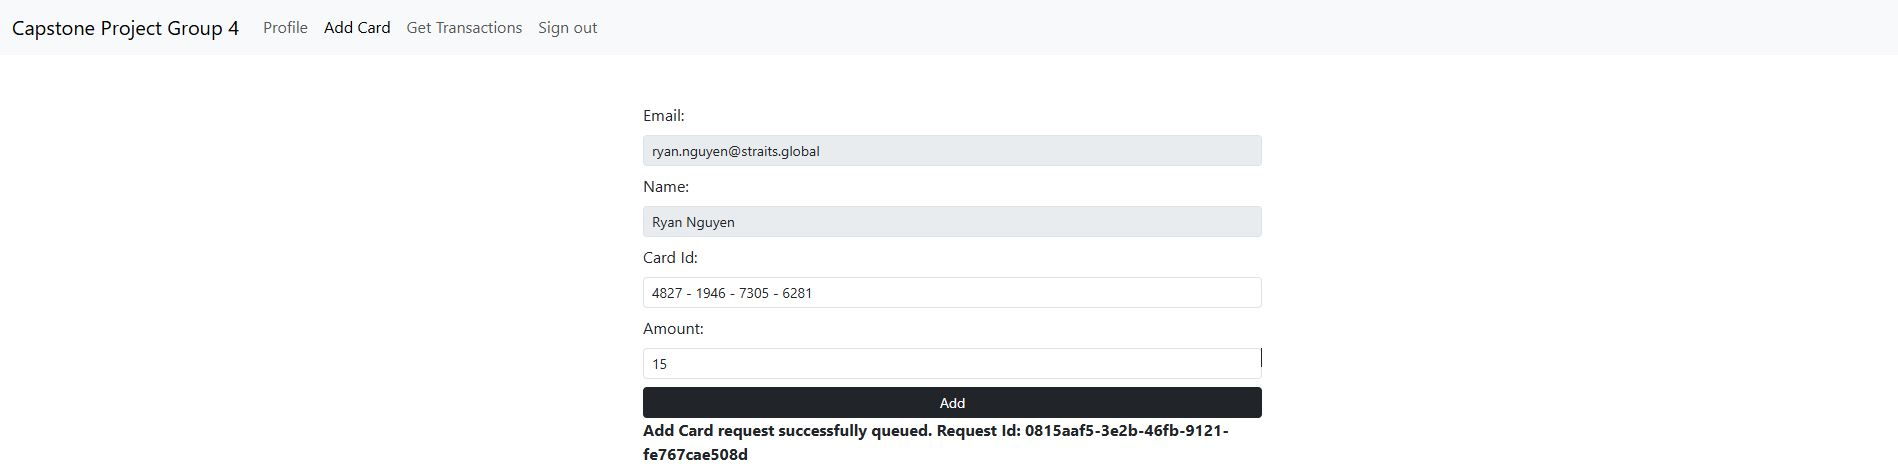
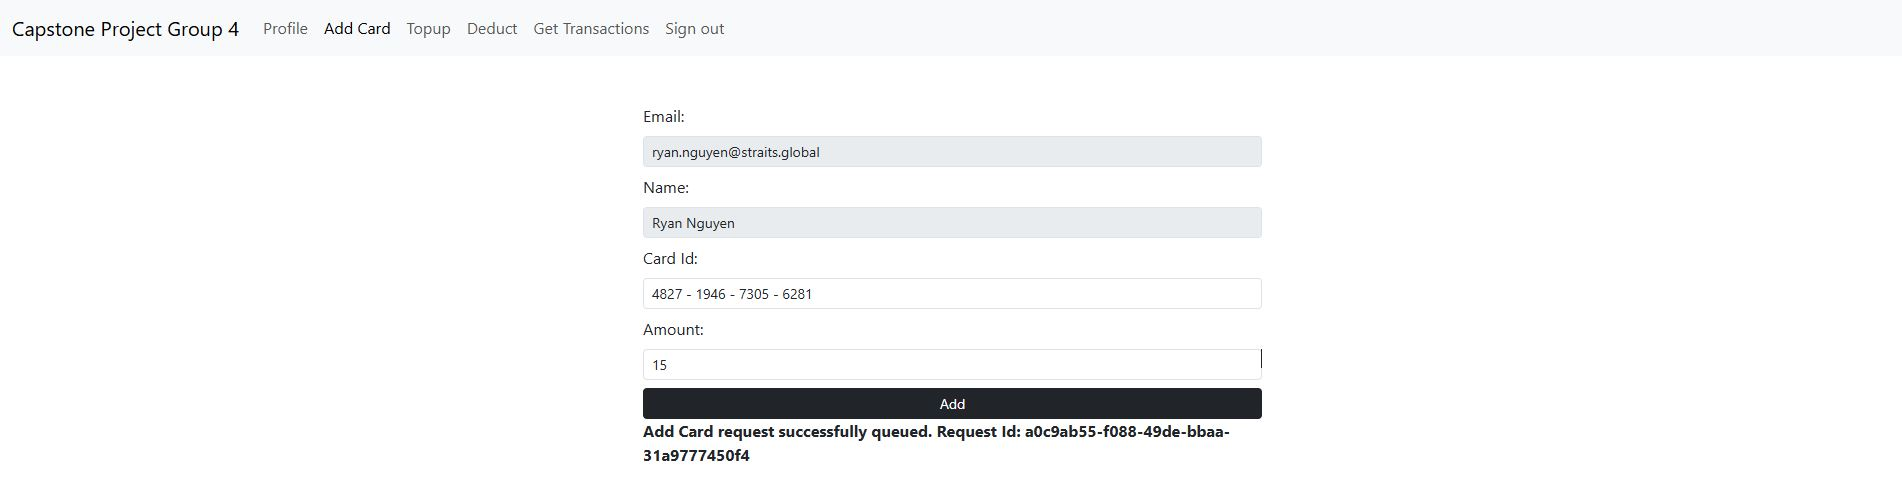
change readme and screenshots

diff --git a/README.md b/README.md
@@ -35,8 +35,15 @@
 
 ![Add Card 04](/images/UI/AddCard04-Profile.JPG "Add Card 04")
 
-# Get Transactions
-![Get Transactions](/images/UI/GetTransactions.JPG "Get Transactions")
+# Topup
+![Topup 01](/images/UI/Topup01.JPG "Topup 01")
+
+![Topup 02](/images/UI/Topup02.JPG "Topup 02")
+
+# Deduct
+![Deduct 01](/images/UI/Deduct01.JPG "Deduct 01")
+
+![Decut 02](/images/UI/Deduct02.JPG "Deduct 02")
 
 ## INSTRUCTIONS
 * **Kindly read the output of CD and add the above REPO SECRETS as well as REPO VARIABLES**
